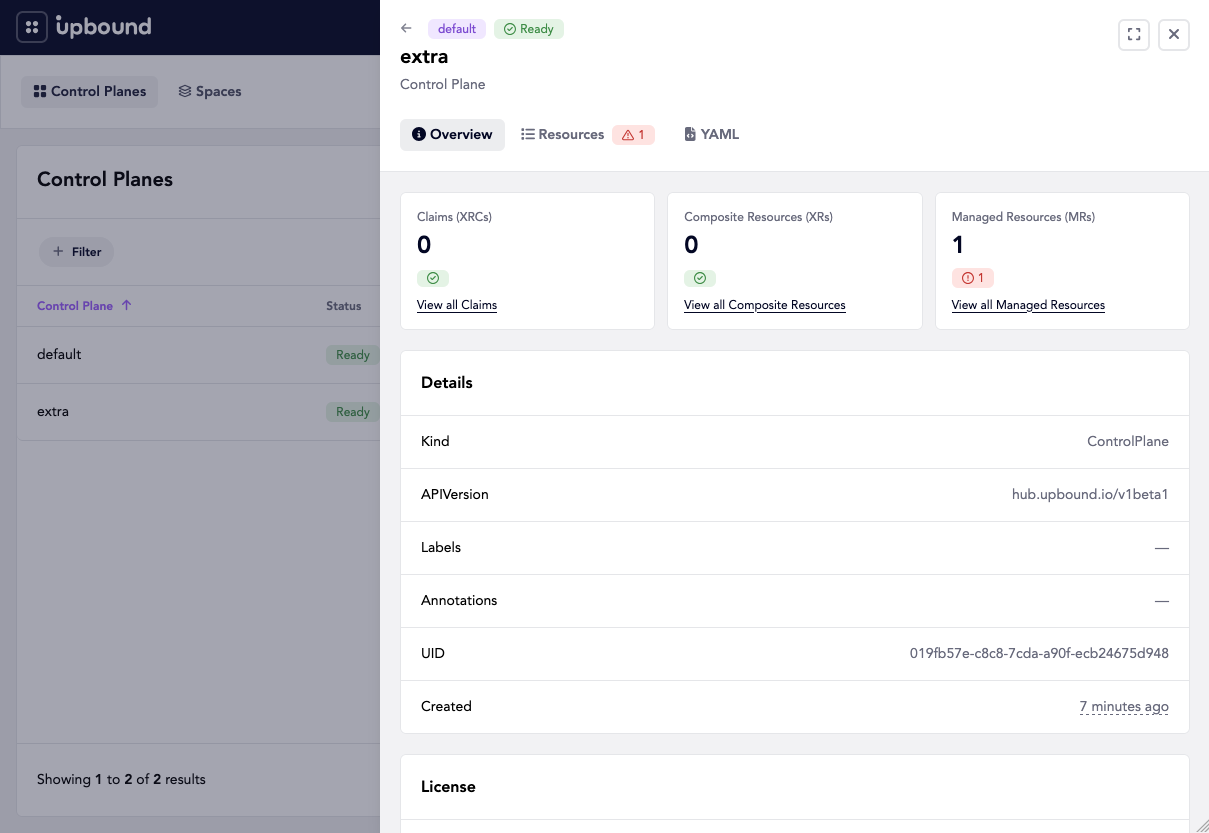
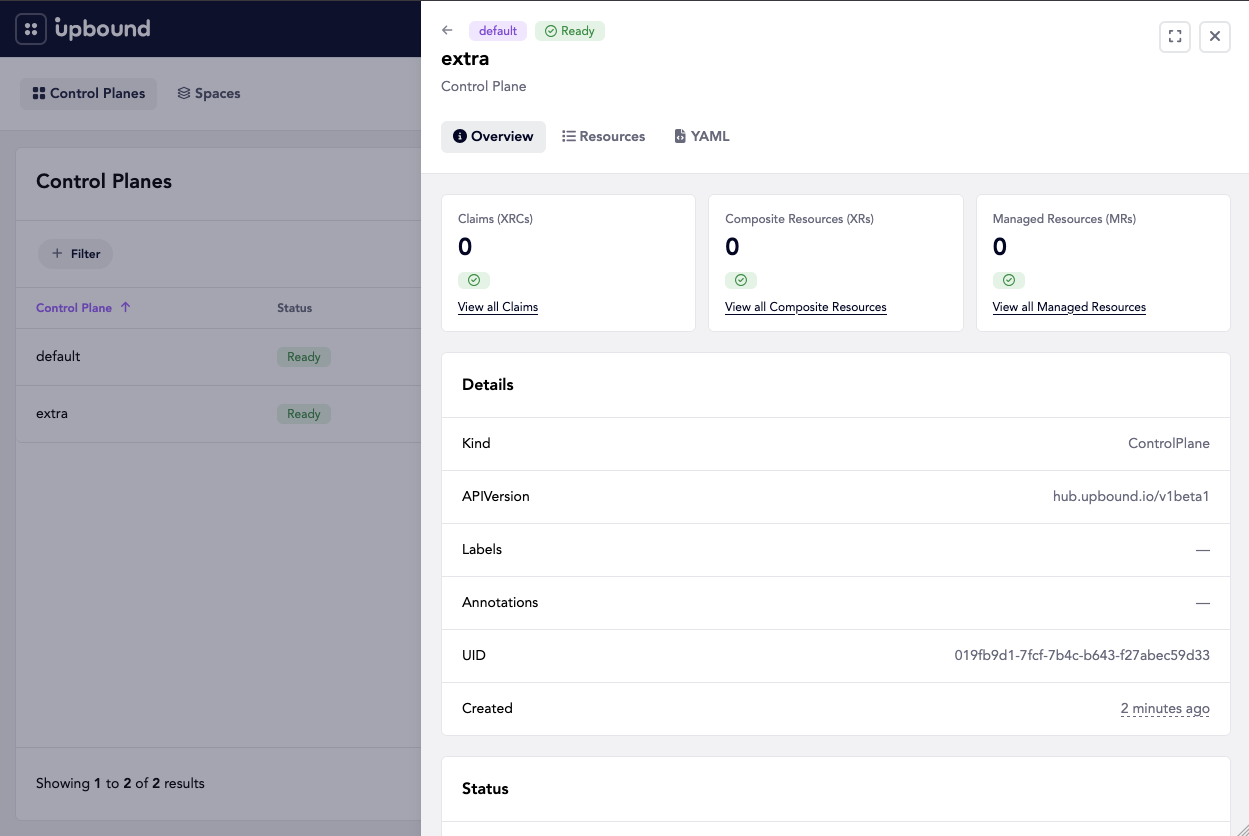
Update hub links and UI references (#1247)
* Update links and redirects

* Update links and images. More guidance on resources

* Add redirect for /getstarted path in vercel.json

---------

diff --git a/src/components/GuidesCards.js b/src/components/GuidesCards.js
@@ -5,7 +5,7 @@ const sections = [
   {
     title: 'Intelligent Control Planes',
     description: 'Advanced control plane patterns with dynamic resource composition, log analysis, and database scaling.',
-    link: '/guides/intelligent-control-planes/intelligent-control-planes/'
+    link: '/guides/intelligent-control-planes/'
   },
   {
     title: 'Solutions',

diff --git a/docs/getstarted/quickstart/connect-a-second-control-plane.md b/docs/getstarted/quickstart/connect-a-second-control-plane.md
@@ -77,7 +77,7 @@ plane the connector speaks for.
 
 1. Open the [control planes page](https://hub.127.0.0.1.nip.io:8443/infrastructure/control-planes)
    and sign in as `admin` / `admin`.
-2. Create a ControlPlane in the `default` realm and name it `extra`.
+2. Register a ControlPlane in the `default` realm and name it `extra`.
 3. Copy the registration token. The hub displays it once.
 
 ![The Register a Control Plane dialog with realm and name fields](/img/quickstart/register-control-plane.png)
@@ -132,7 +132,7 @@ Select `extra` to see its resource counts and details:
 
 <CardGrid sections={[
   {
-    title: 'Create a managed resource',
+    title: 'Create a composite resource',
     description: 'Install UXP and a configuration. Then watch a resource reach the hub.',
     link: '/getstarted/quickstart/create-resources'
   }

diff --git a/docs/getstarted/quickstart/install-the-hub.md b/docs/getstarted/quickstart/install-the-hub.md
@@ -143,6 +143,13 @@ planes, resources, and definitions the hub sees:
 
 ![The hub dashboard showing control plane, resource, and definition counts](/img/quickstart/dashboard.png)
 
+The [resources page](https://hub.127.0.0.1.nip.io:8443/explore/resources) lists
+every resource the hub sees, starting with the components the chart installed.
+Filter or search by name to see one of them, like Keycloak, as the Deployment,
+Pod, Service, and ConfigMap behind it:
+
+![The resources page filtered to resources whose name contains keycloak](/img/quickstart/resources.png)
+
 The [definitions page](https://hub.127.0.0.1.nip.io:8443/explore/definitions)
 lists every API kind across the connected control planes. See
 [Definitions][definitions] for what Insights correlates there:

diff --git a/hub-docs/reference/feature-flags.md b/hub-docs/reference/feature-flags.md
@@ -91,7 +91,8 @@ in the `hub-connector` chart. See [Metrics](../products/insights/metrics/overvie
 ### Registry
 
 The `Registry` gate supplies the credentials Catalog uses to pull from private
-or self-hosted registries. See [Registry](../products/insights/registry/overview.md).
+or self-hosted registries. See
+[Registry].
 
 ## Enabling a feature gate
 
@@ -140,6 +141,6 @@ For teams that manage flag definitions themselves:
   `/ofrep`.
 
 <!-- vale write-good.Passive = YES -->
-
+[registry]: /hub/products/insights/catalog/external-registry/
 [feature-releases]: /hub/reference/feature-releases
 [ofrep]: https://openfeature.dev/specification/appendix-c/
